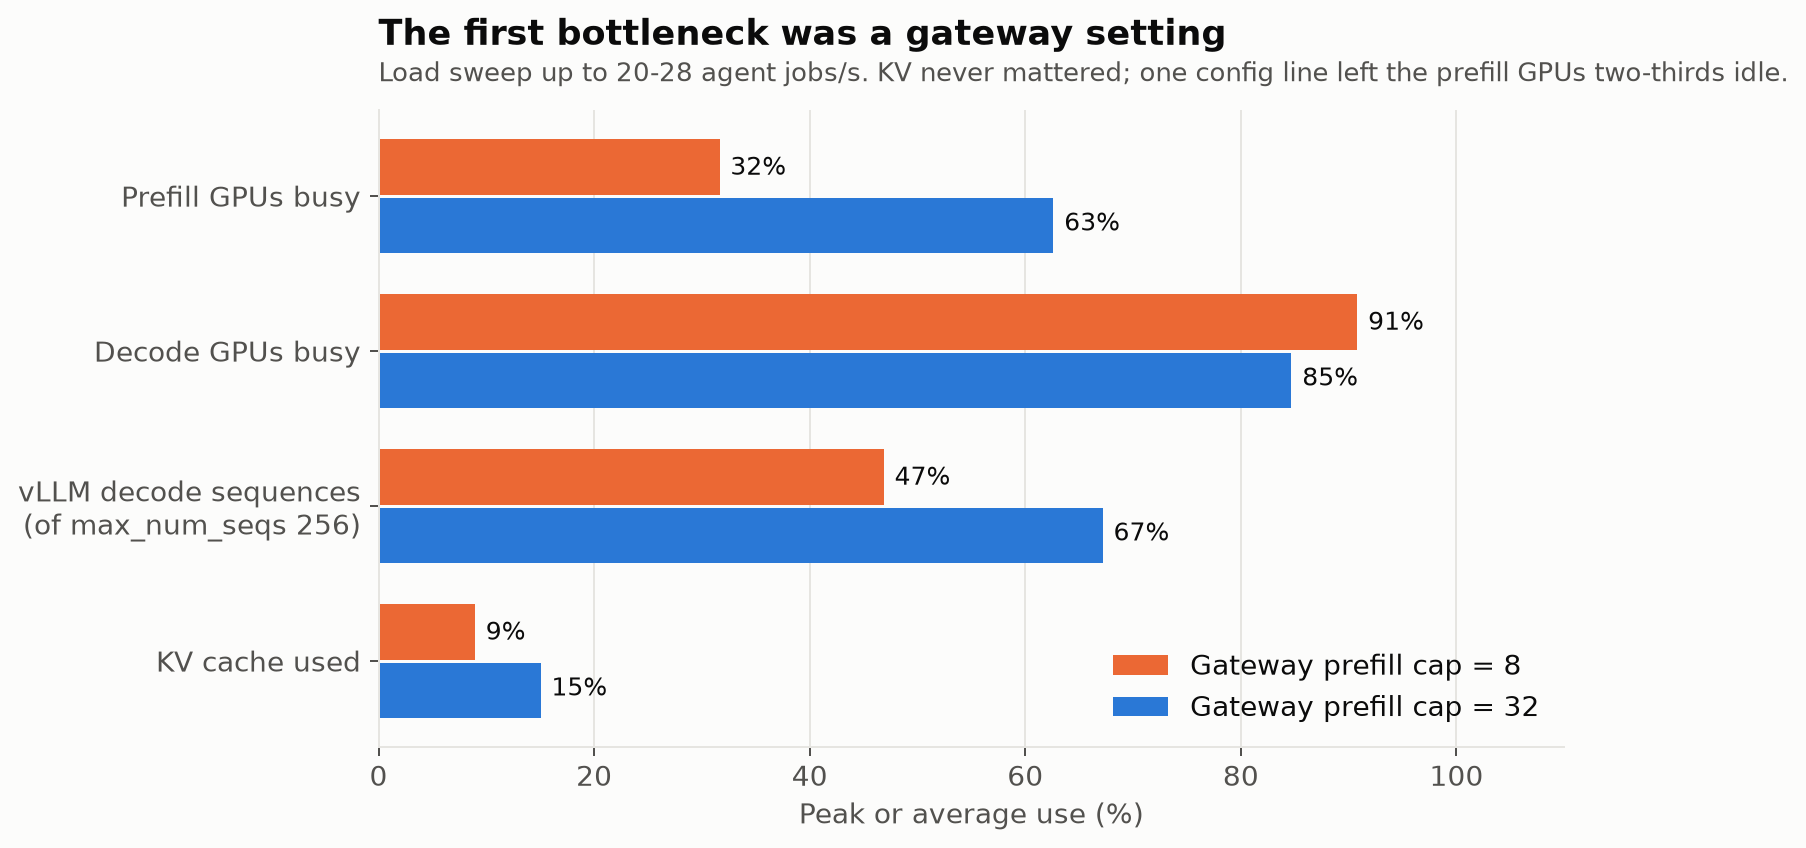
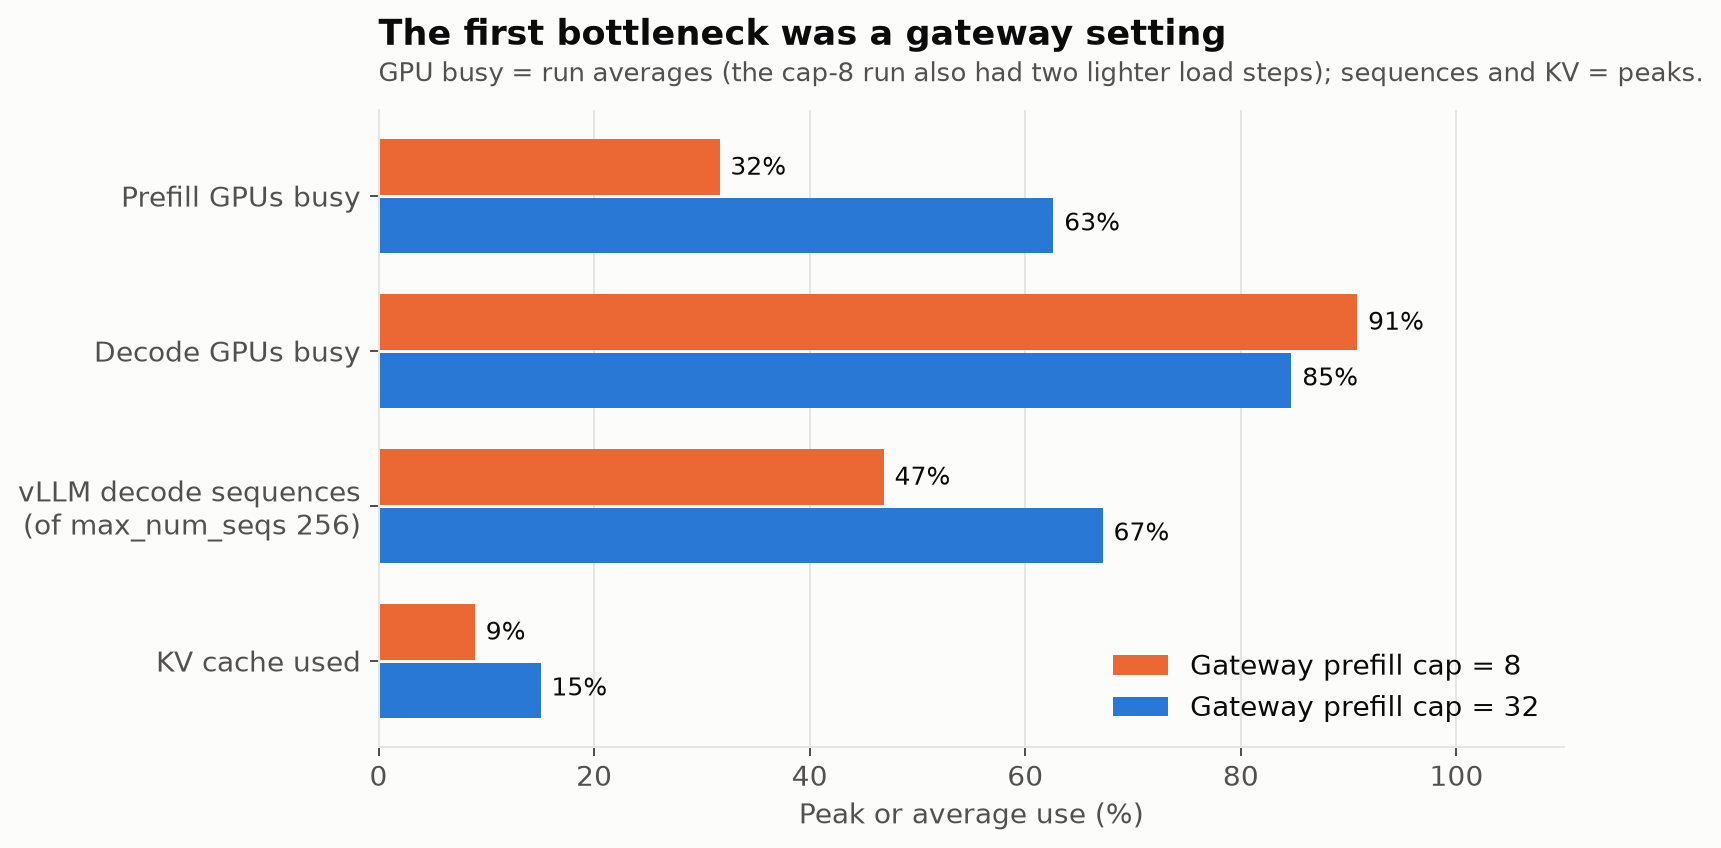
docs: compare the prefill-cap runs at the shared 20 jobs/s step, not run averages
The cap-8 run included two lighter load steps, so its run-average tokens/s and GPU busy
figures are not like-for-like. Use the 20 jobs/s step both runs share.

diff --git a/cluster/article_figures.py b/cluster/article_figures.py
@@ -163,7 +163,7 @@ def bottleneck_shift() -> None:
     title(
         ax,
         "The first bottleneck was a gateway setting",
-        "Load sweep up to 20-28 agent jobs/s. KV never mattered; one config line left the prefill GPUs two-thirds idle.",
+        "GPU busy = run averages (the cap-8 run also had two lighter load steps); sequences and KV = peaks.",
     )
     save(fig, "3-bottleneck-shift")
 

diff --git a/DESIGN.md b/DESIGN.md
@@ -194,7 +194,7 @@ Experiments run with `cluster/experiment.sh`, summarised by `cluster/analyze_run
 | # | Experiment | Result |
 | --- | --- | --- |
 | E5a | Hop vs local recompute, 0.5k-25k tokens (`a100-hop-probe.json`) | Local wins at every size (1.5-2.3×). NIXL ~4.5 GB/s; the transfer adds ~44 % to prefill time because prefill makes KV at ~2 GB/s (20k tokens/s × 96 KiB). |
-| E3 | Load sweep, P/D split (`sweep2`, `sweep3`) | Prefill cap 8: prefill GPUs 30 % busy, queue 277, TTFT p99 27 s at 20 jobs/s. Cap 32: tokens/s +55 %, limit moves to decode slots/GPU. Knee ≈ 12 jobs/s (TTFT p99 1.0 s). |
+| E3 | Load sweep, P/D split (`sweep2`, `sweep3`) | At 20 jobs/s, prefill cap 8: TTFT p50 2.0 s, p99 27 s, prefill queue 65, decode queue 277, 120 sequences in vLLM. Cap 32 at the same rate: p50 1.1 s, p99 17 s, prefill queue 12, 172 sequences; the limit moves to decode slots/GPU. (Run-average GPU figures mix different load steps; compare the 20 jobs/s step.) Knee ≈ 12 jobs/s (TTFT p99 1.0 s). |
 | E4 | P/D vs colocated, same 8 GPUs (`sweep3` vs `colo`) | Colocated: +27 % tokens/s; TTFT p99 at 20 jobs/s **1.23 s vs 16.7 s**; same ITL (24.8 vs 24.4 ms). |
 | E8 | KEDA scale-out (`autoscale`) | Scaled 21 s into the burst; replica ready at +239 s; burst ended at +156 s; 0 requests served; scaled down at +381 s. |
 | E7 | Noisy tenant (`noisy`) | 541 of the flooder's requests refused at admission; other tenants TTFT p99 **0.38 s**. |

diff --git a/article/understanding-inference-bottlenecks-part-1.md b/article/understanding-inference-bottlenecks-part-1.md
@@ -152,7 +152,11 @@ With the cap at 8, the prefill GPUs were about 32 % busy and 277 requests waited
 queue, while the engine had room for more than twice the sequences it was running. Worse, my
 gateway reserves a decode slot before starting prefill, so that prefilled KV never waits for a
 place to go. That meant requests queued for prefill were also holding decode capacity. Raising the
-cap to 32 lifted throughput by 55 % and moved the limit to where it belonged: decode GPU time.
+cap to 32, at the same 20 jobs per second, halved median time to first token (2.0 s to 1.1 s),
+cut p99 from 27 s to 17 s, shrank the prefill queue from 65 to 12 and let the engine run 172
+sequences instead of 120. The limit moved to where it belonged: decode slots and decode GPU time.
+(The GPU-busy figures in the chart are averages over each whole run, and the first run also
+included two lighter load steps, so read them as direction rather than precise values.)
 
 **On the A10 rehearsal**, three other control-plane decisions caused trouble before I fixed them:
 
